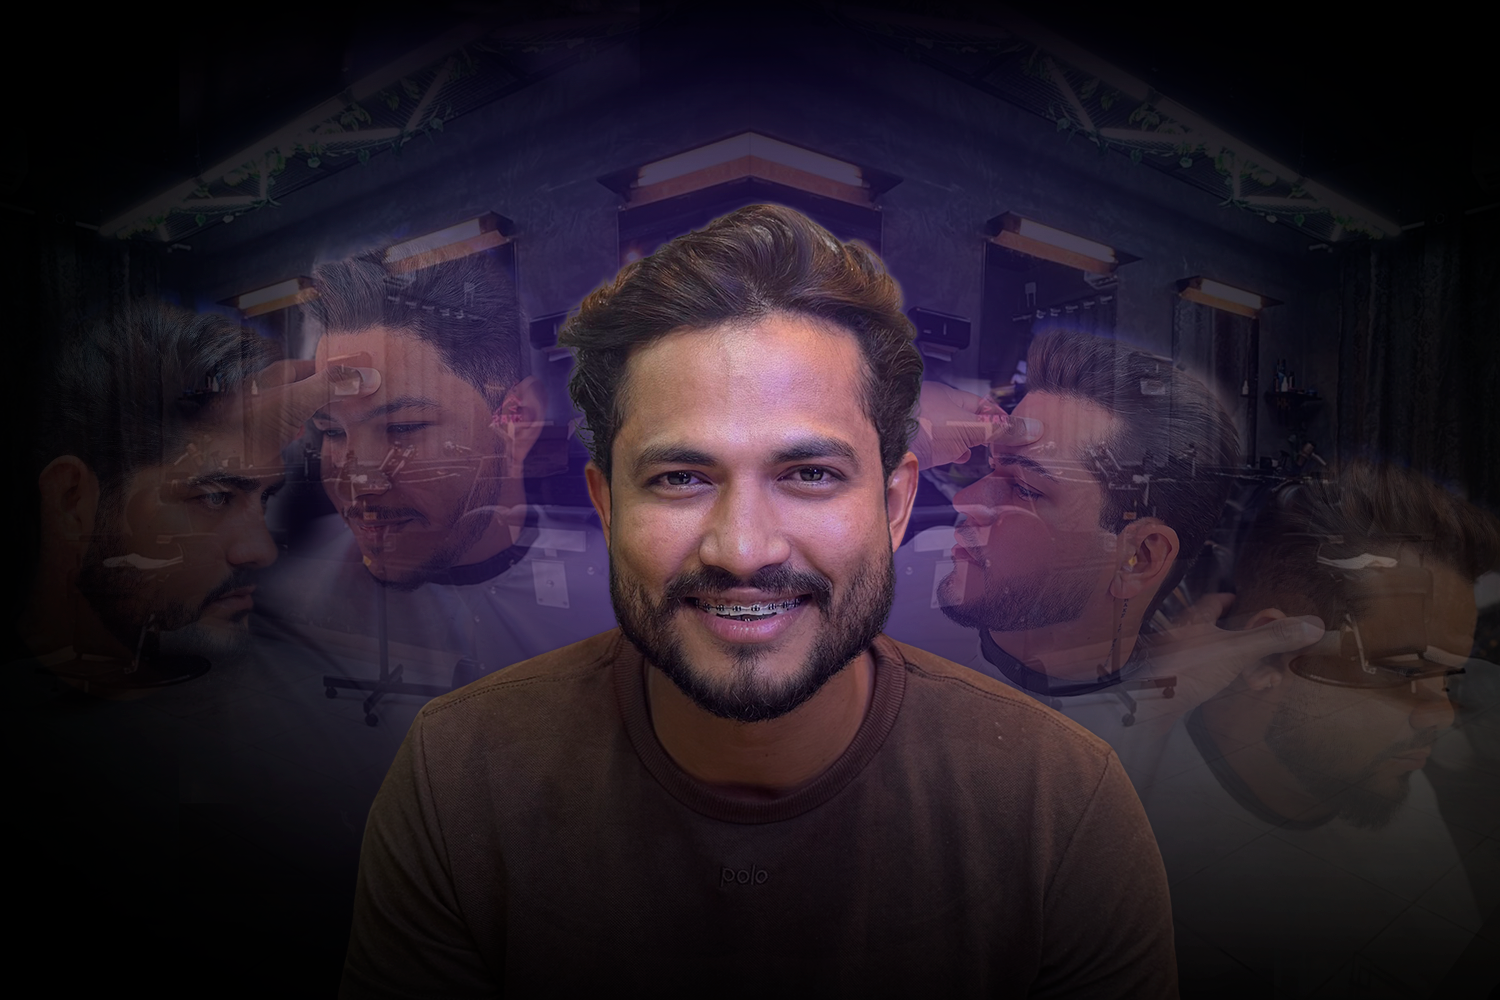
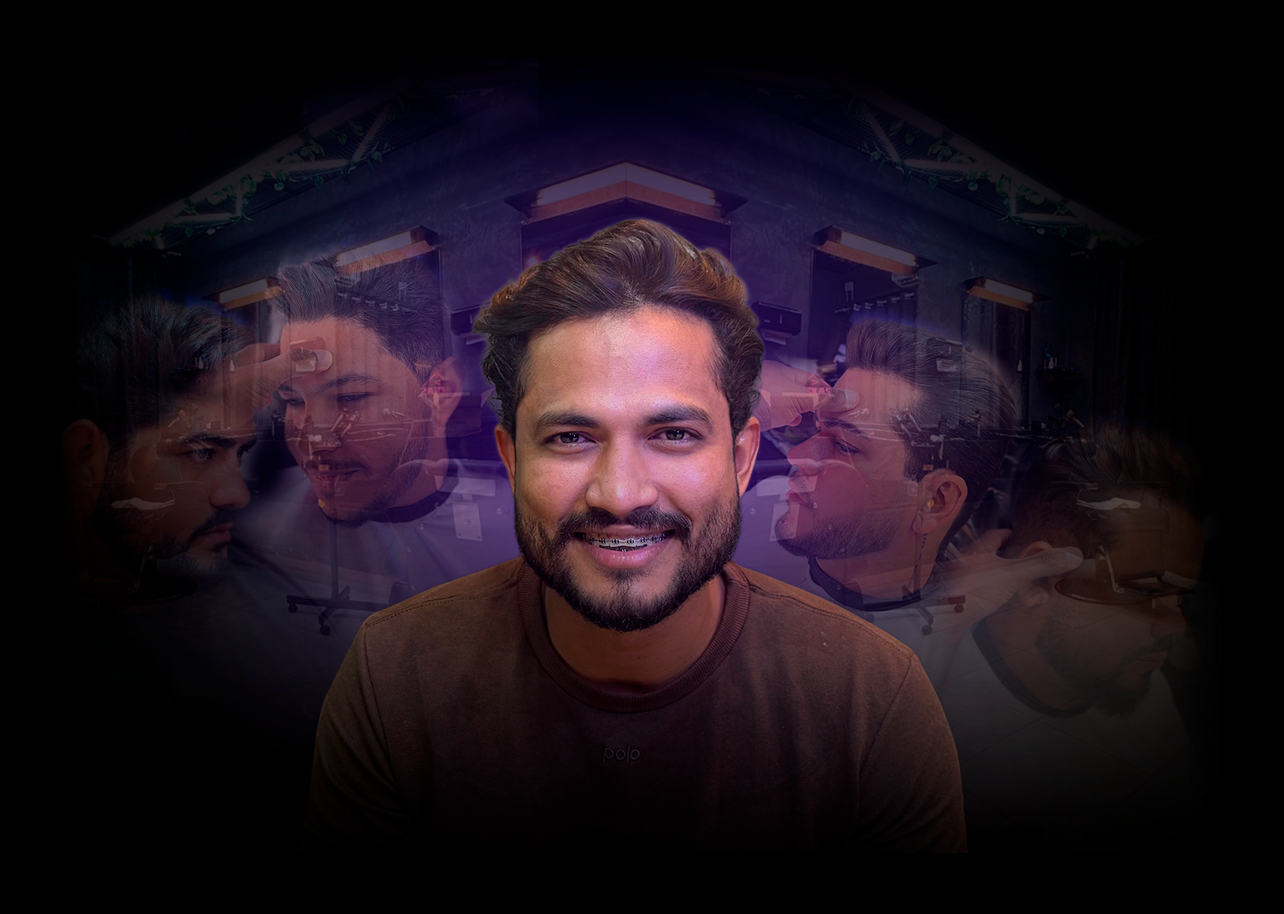
atualziação

diff --git a/index.html b/index.html
@@ -216,10 +216,10 @@
 
  <section id="home" class="background-dark-blue-3 full-height height-auto-lg hide-over" style="max-height: 900px; position: relative;">
 
-    <!-- Imagem de fundo como tag img -->
-    <img src="novo/img/background-thiago-finch.png"
-         alt="Background"
-         style="position: absolute; top: 0; left: 0; width: 100%; height: 100%; object-fit: cover; z-index: -1;">
+<img src="novo/img/background-thiago-finch.png"
+     alt="Background"
+     style="position: absolute; top: 0; left: 0; width: 100%; height: 100%; object-fit: contain; object-position: center; transform: scale(1.15); z-index: -1;">
+
 
     <div class="container">
         <div class="row justify-content-center" style="position: relative">
